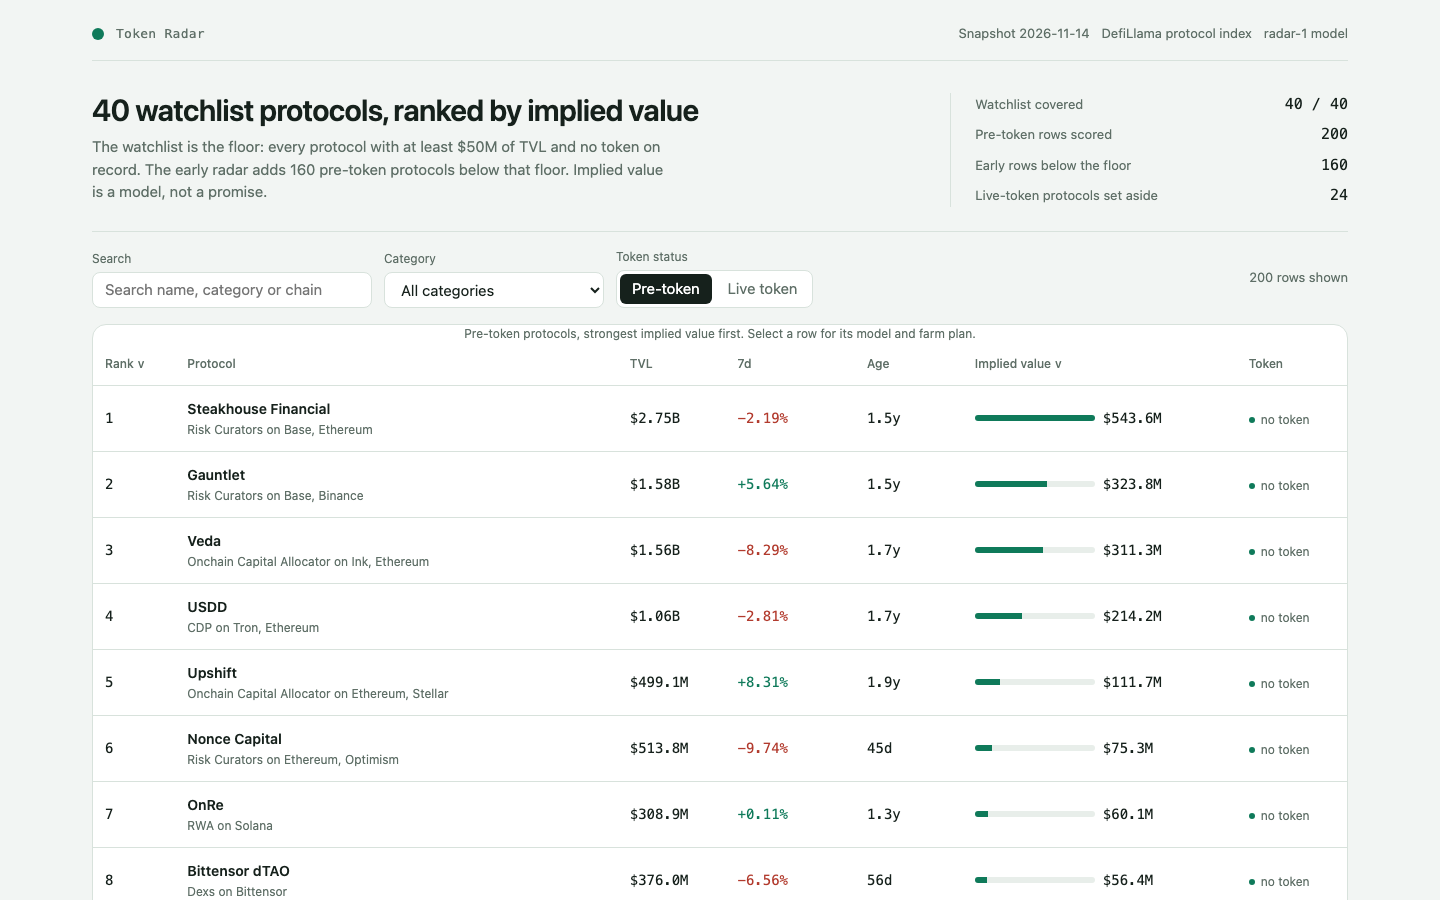
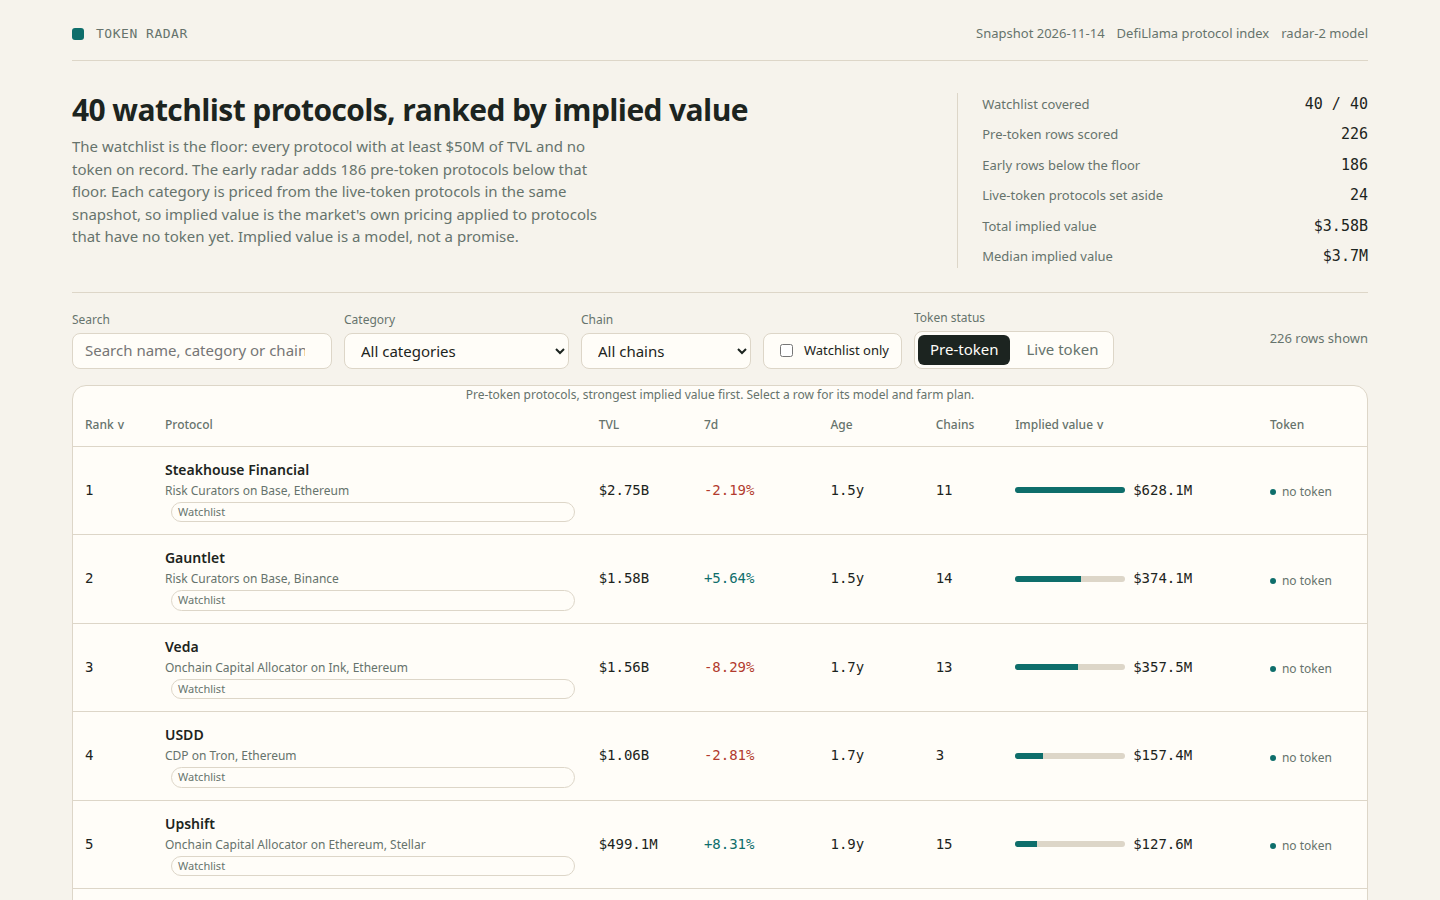
Real dashboard screenshots: board, detail, filtered (Chrome renders)

diff --git a/README.md b/README.md
@@ -29,5 +29,6 @@ mkdir -p out && MAKEFUN_OUTPUT_DIR=out node main.ts --input ../input/snapshot.js
 
 ## Status
 
-Screenshots in `screenshots/` are placeholders from the starter kit and must be replaced with
-captures of this dashboard (board, detail view, filtered view) before submission.
+Screenshots in `screenshots/` are real renders of this dashboard in desktop
+Chrome (board, detail view, filtered view), captured by the entry's maker
+with Playwright driving the dashboard served from `out/`.
